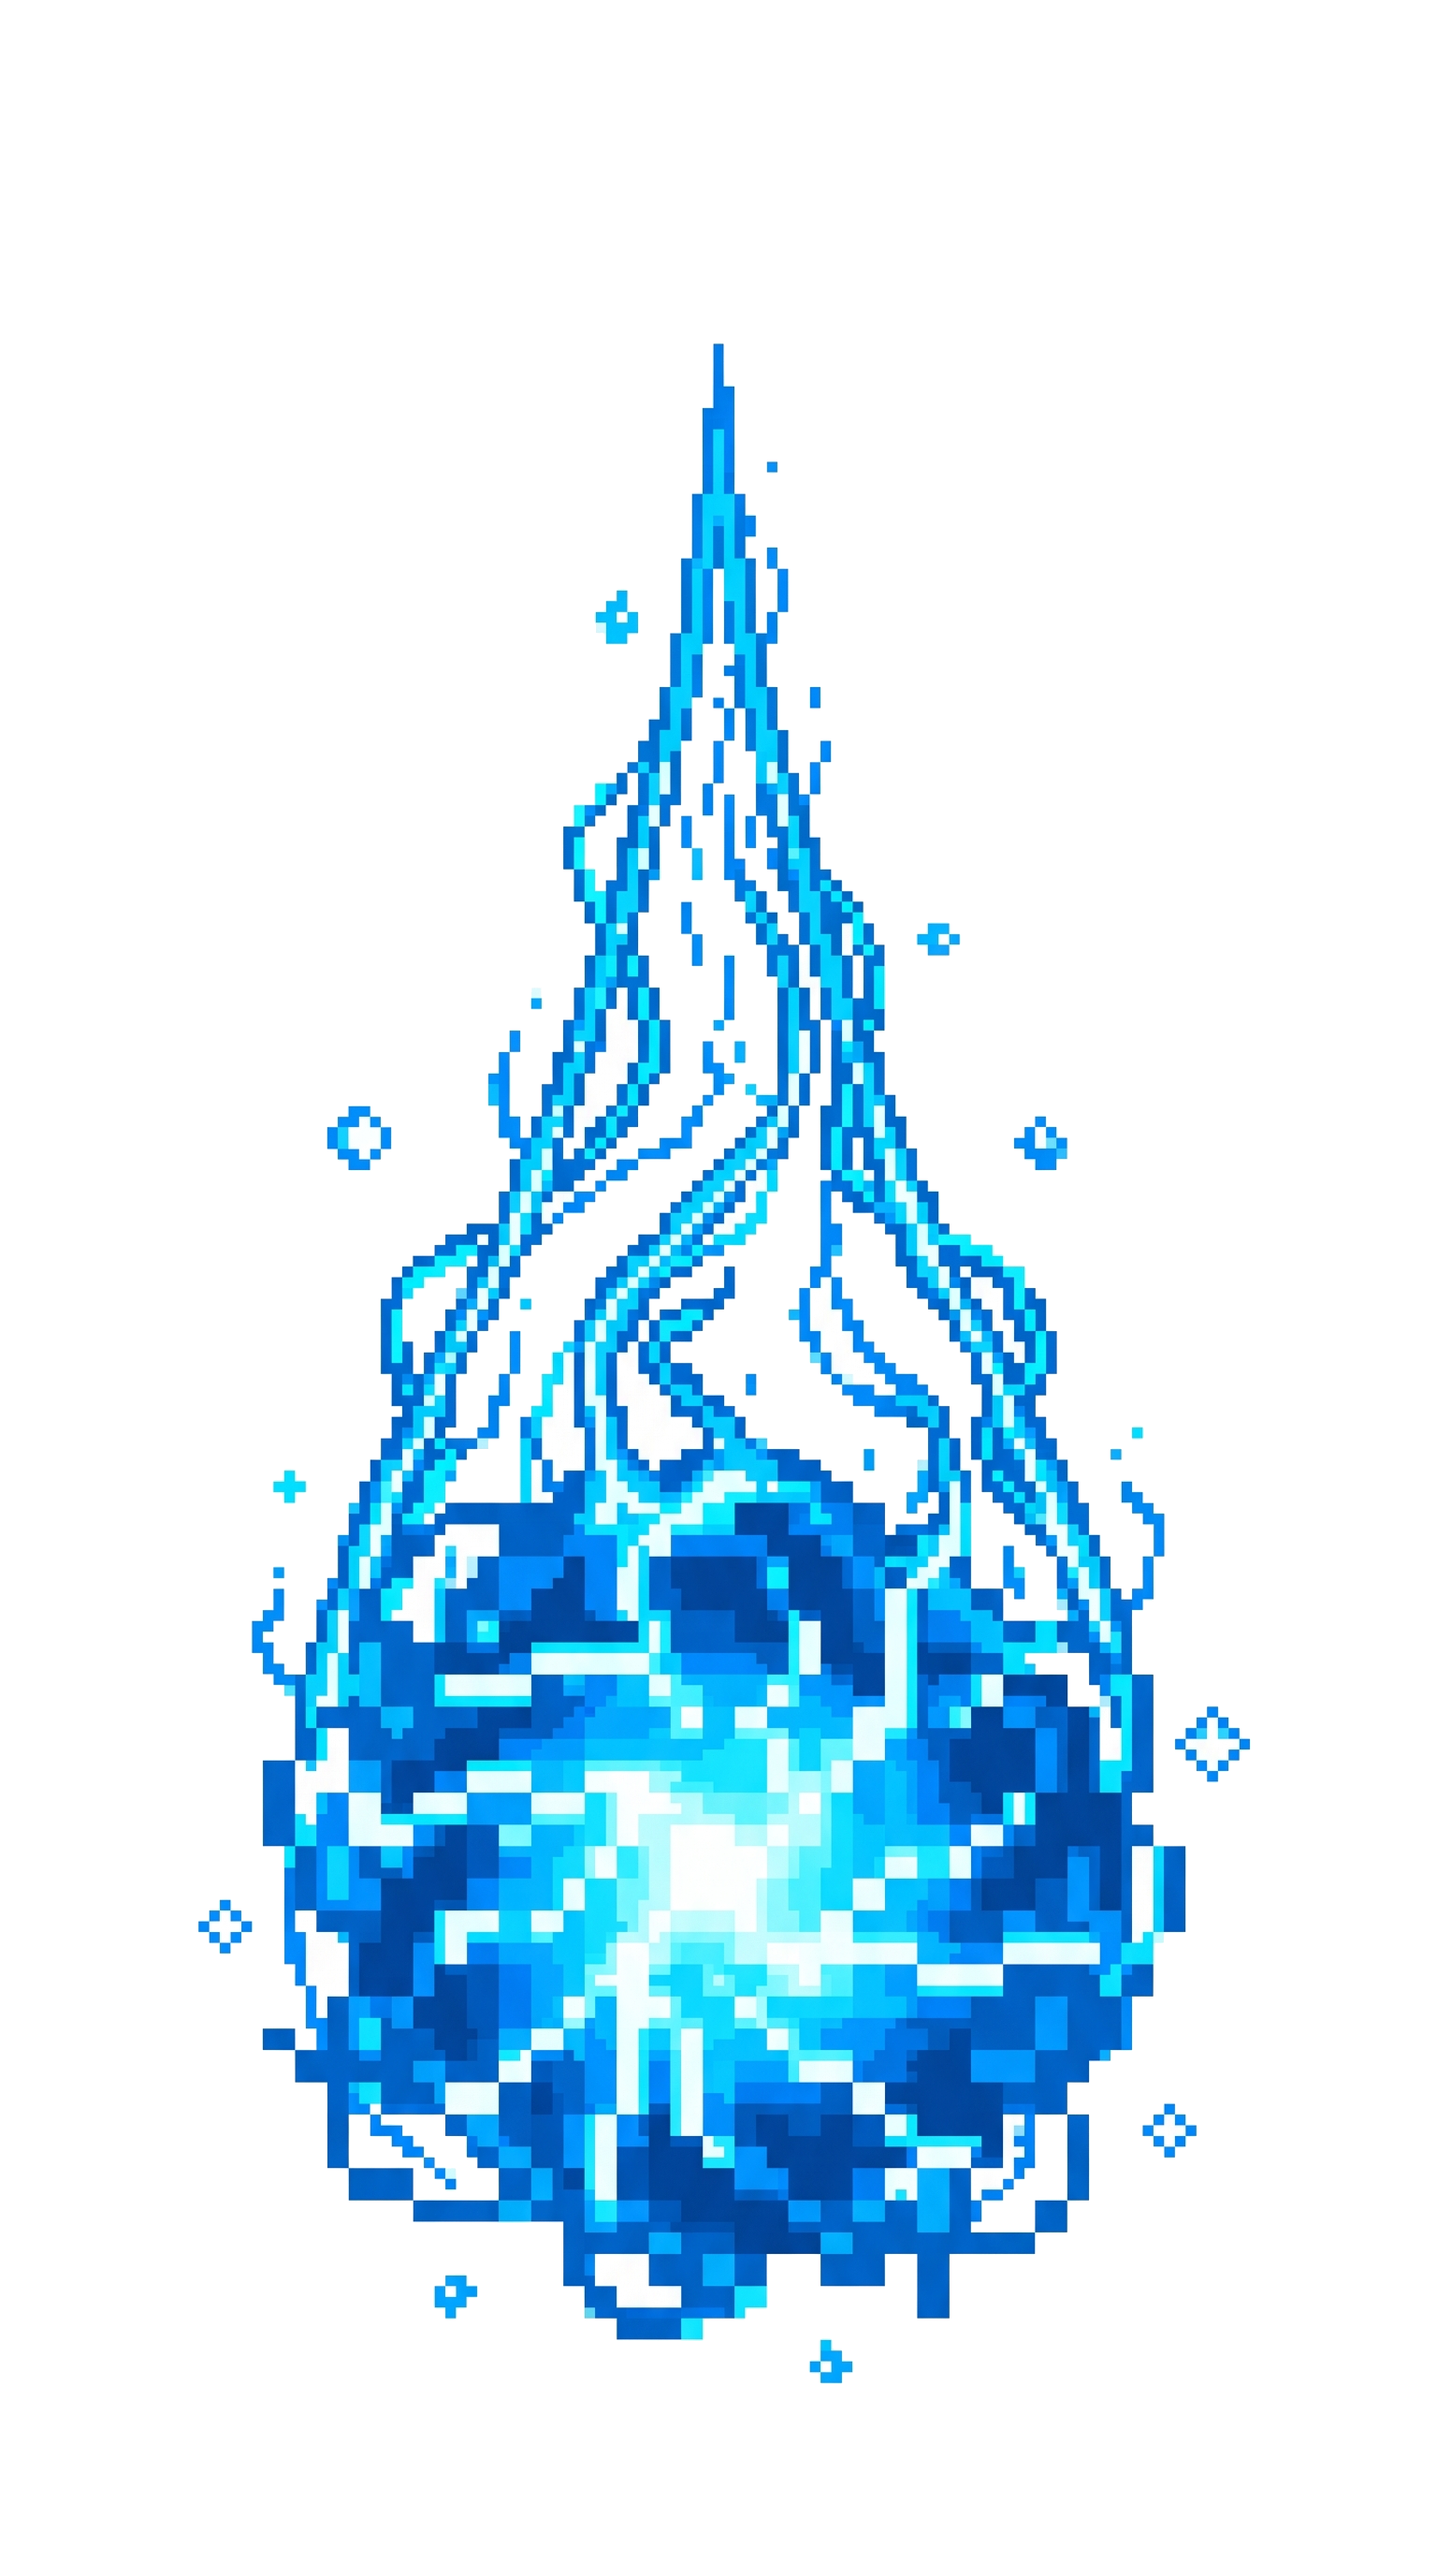
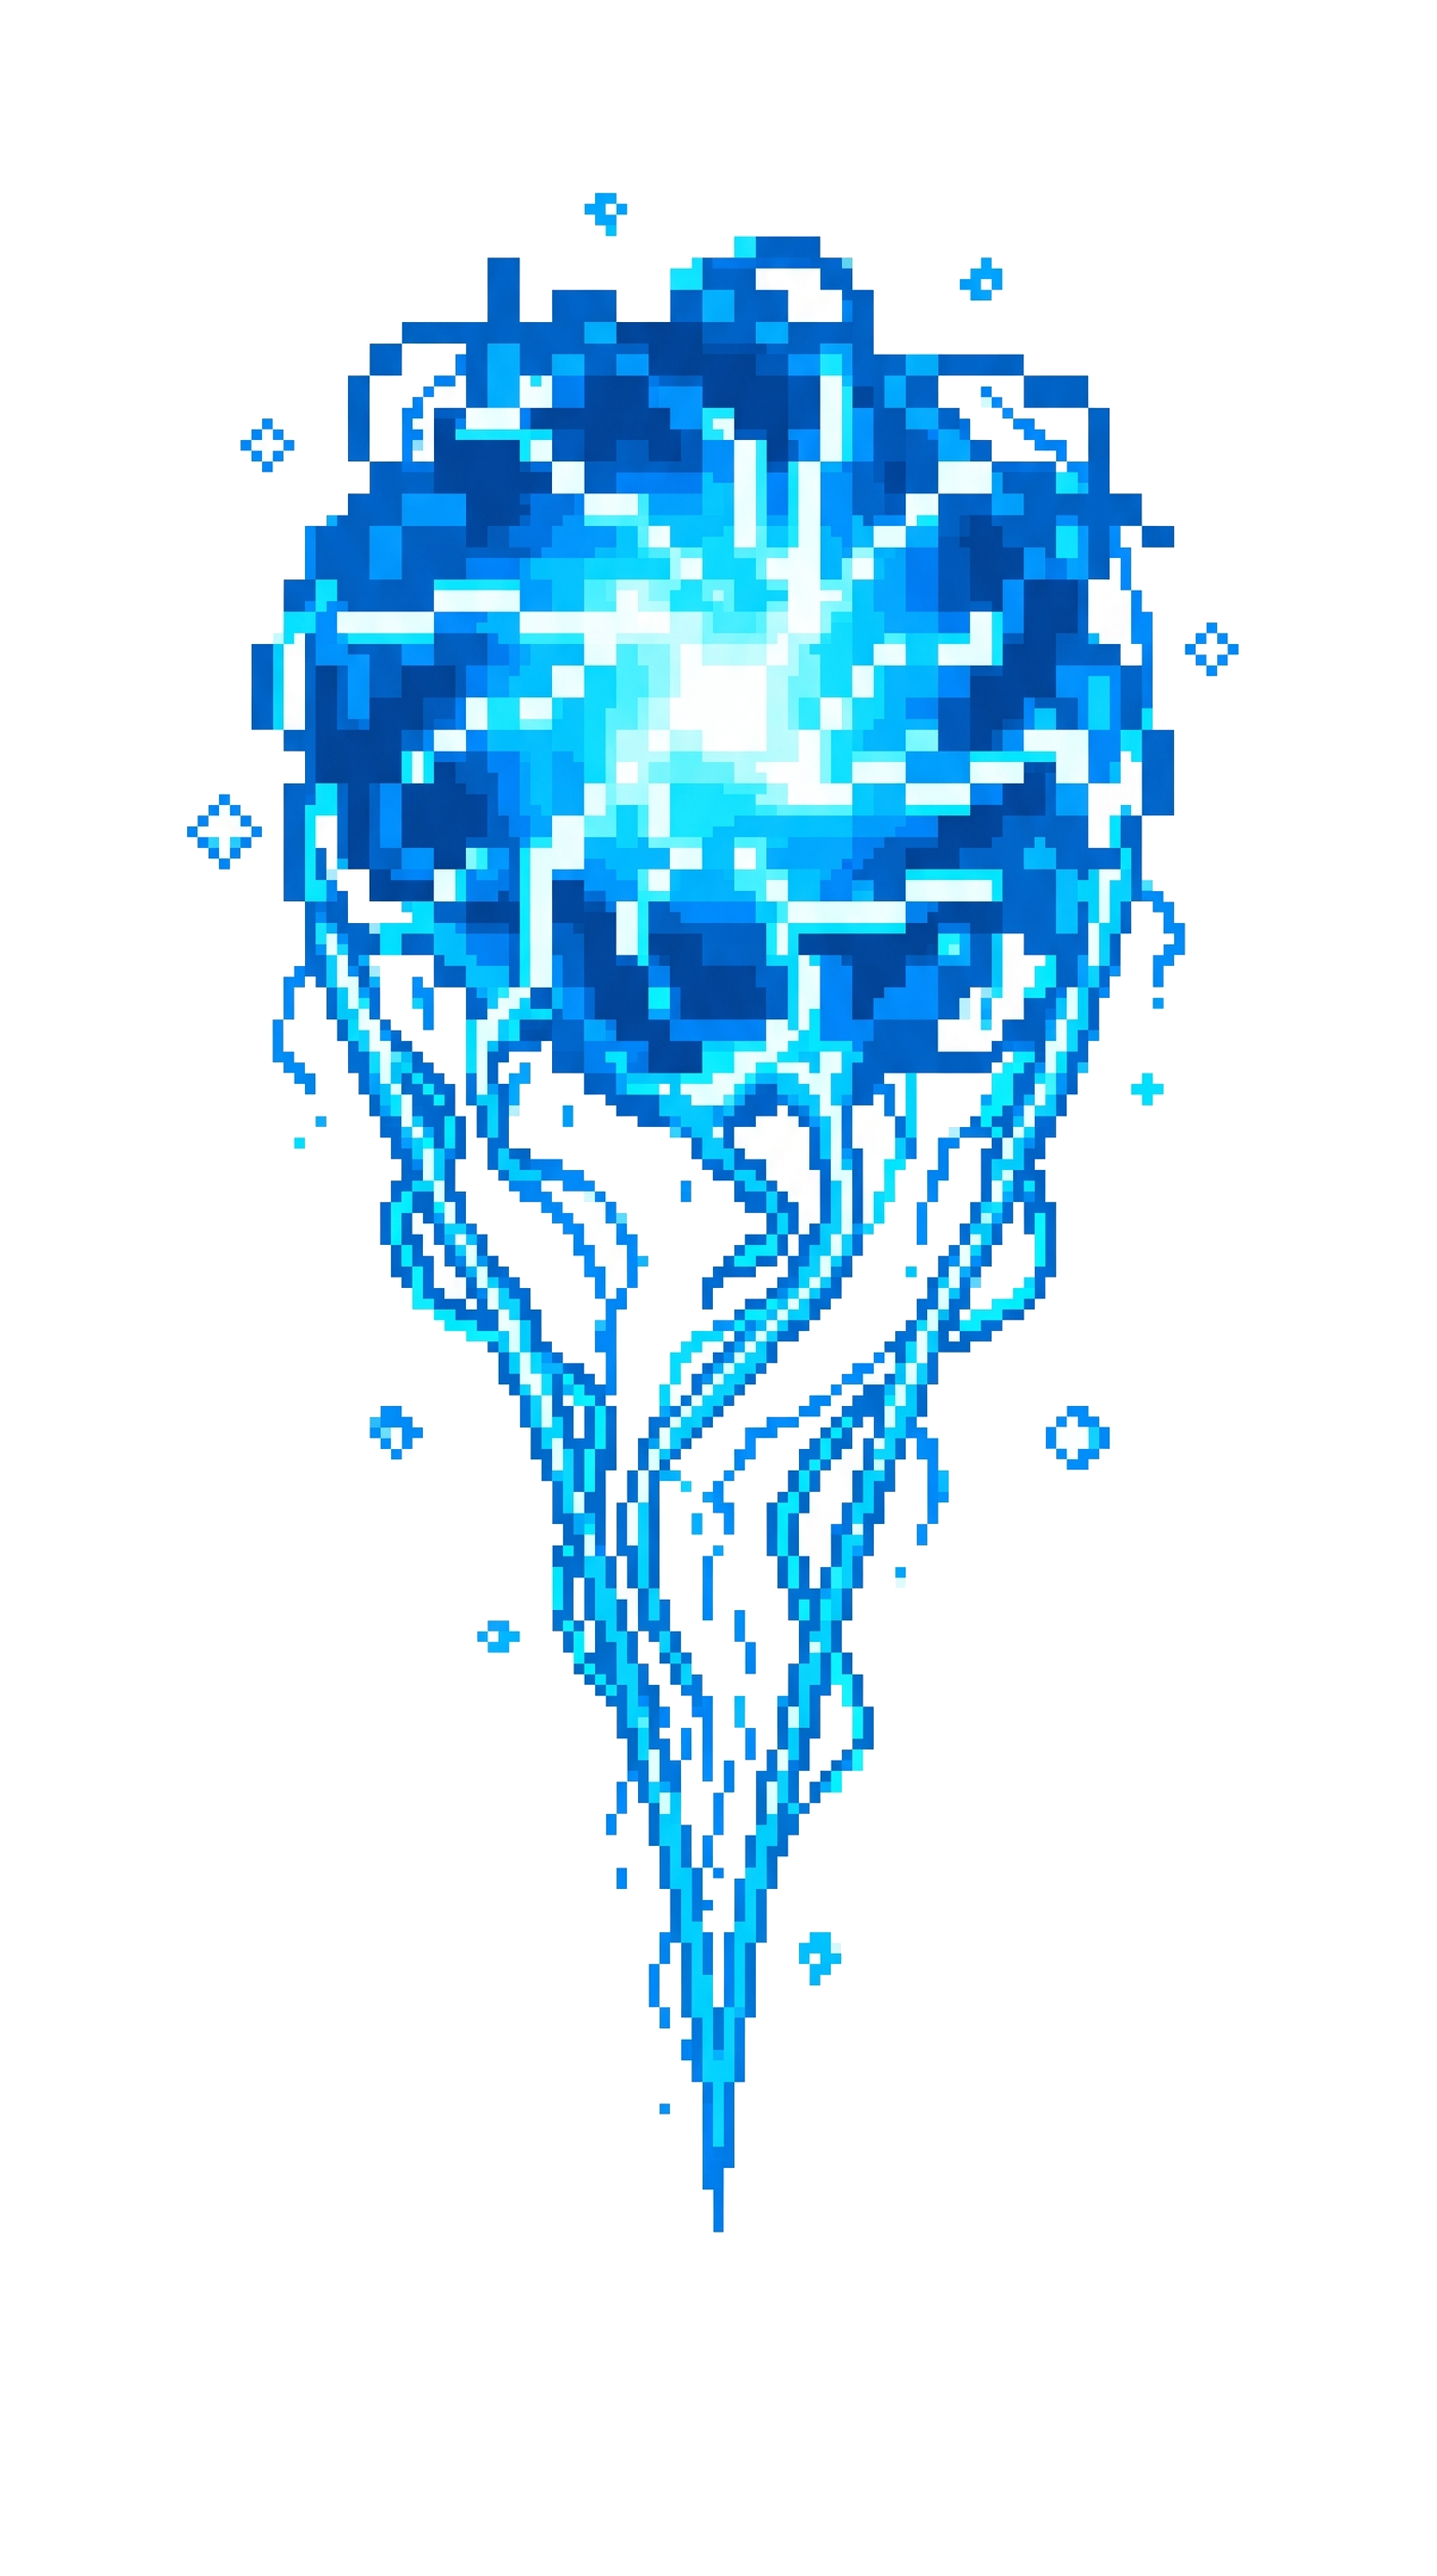
Feat(code)Les tirs apparaissent et vont pour l'instant vers le haut
[90,Done]

diff --git a/Base (1)/Drones/Model/Tirs.cs b/Base (1)/Drones/Model/Tirs.cs
@@ -12,17 +12,46 @@ namespace Player
         private const int _SPEED = 10;
         private int _x;
         private int _y;
-        private int _bulletsize;
+        private int _bulletsizex;
+        private int _bulletsizey;
+        private double _dirx;
+        private double _diry;
 
-        public Tirs(int x, int y, int bulletsize)
+
+        public bool IsOutOfBounds => _y < -50;
+
+        public Tirs(int startx, int starty,int targetx, int targety, int bulletsizex, int bulletsizey)
         {
-            _x = x;
-            _y = y;
-            _bulletsize = bulletsize;
+            _x = startx;
+            _y = starty;
+            _bulletsizex = bulletsizex;
+            _bulletsizey = bulletsizey;
+
+            double deltax = targetx - startx;
+            double deltay = targety - starty;
+
+            double distance = MathHelpers.Distance(startx, starty, targetx, targety);
+
+            if (distance > 0)
+            {
+                _dirx = (deltax / distance) * _SPEED;
+                _diry = (deltay / distance) * _SPEED;
+            }
+            else
+            {
+                _dirx = 0;
+                _diry = -_SPEED;
+            }
+
+        }
+
+        public void Update(int interval)
+        {
+            _y -= _SPEED;
         }
         public void Render(BufferedGraphics drawingSpace)
         {
-            drawingSpace.Graphics.DrawImage(Resources.allyshot, GameSpace.WIDTH / 2, GameSpace.HEIGHT / 2, 100, 100);
+            drawingSpace.Graphics.DrawImage(Resources.allyshot, _x, _y, _bulletsizex, _bulletsizey);
         }
     }
 }

diff --git a/Base (1)/Drones/View/GameSpace.cs b/Base (1)/Drones/View/GameSpace.cs
@@ -41,6 +41,10 @@ namespace Player
             gamespace.Graphics.Clear(Color.AliceBlue);
 
             _player.Render(gamespace);
+            foreach (Tirs tir in _bullets)
+            {
+                tir.Render(gamespace);
+            }
 
             foreach (Ennemis ennemis in _ennemis)
             {
@@ -54,6 +58,16 @@ namespace Player
         private void Update(int interval)
         {
             _player.Update(interval);
+
+            for (int i = _bullets.Count - 1; i >= 0; i--)
+            {
+                _bullets[i].Update(interval);
+
+                if (_bullets[i].IsOutOfBounds)
+                {
+                    _bullets.RemoveAt(i);
+                }
+            }
 
             for (int i = _ennemis.Count -1; i >= 0; i--)
             {
@@ -101,7 +115,13 @@ namespace Player
 
                 case Keys.LButton:
                 case Keys.Space:
-                    _bullets.Add(new Tirs(_player.x, _player.y,5));
+                    //Position de la souris
+                    Point mousePos = this.PointToClient(Cursor.Position);
+
+                    int startx = _player.x + 15;
+                    int starty = _player.y;
+
+                    _bullets.Add(new Tirs(startx,starty,mousePos.X,mousePos.Y,40, 40));
                     break;
             }
         }
